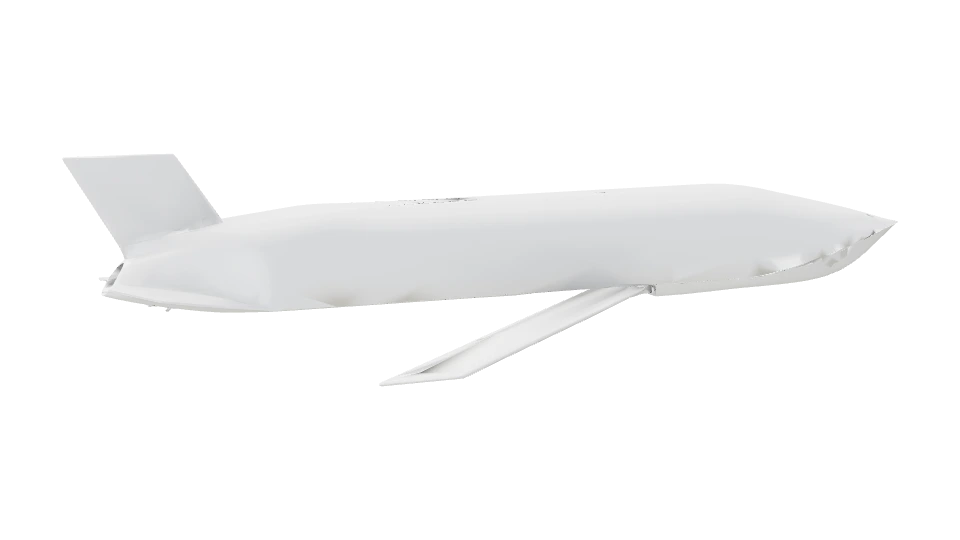
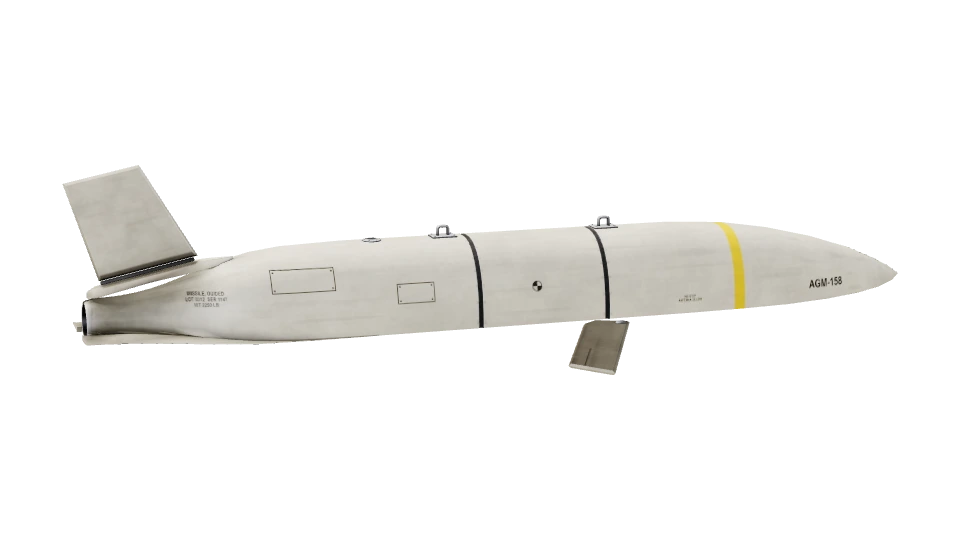
Миниатюры «Волны» обновлены вместе с новыми моделями; integrate-own снимает обе

Changed region(s): [[0.0625, 0.2667, 0.9375, 0.7111]]

diff --git a/fortuna-bot-web/tools/airdef-models/integrate-own.js b/fortuna-bot-web/tools/airdef-models/integrate-own.js
@@ -97,14 +97,16 @@ console.log('5. авторы чужого набора: ' + (credRemoved || newM
 // (2026-10-25: «Кинжал» снимался как wpn:kinzhal — такого узла нет, миниатюра не обновилась)
 const { NODE } = await import(WEB + 'games/airdef/progress.js');
 const TID = NODE['wpn:' + P.weapon] ? 'wpn:' + P.weapon : NODE['strike:' + P.weapon] ? 'strike:' + P.weapon : 'wpn:' + P.weapon, TFILE = `games/airdef/thumbs/${TID.replace(':', '_')}.webp`;
+// оружие и заказ «Волны» у одной модели (Х-101, JASSM…): у удара своя миниатюра strike_<ключ>_s (2026-11-05: в «Волне» осталась старая Х-101)
+const TID2 = NODE['strike:' + P.weapon + '_s'] ? 'strike:' + P.weapon + '_s' : null, TFILE2 = TID2 ? `games/airdef/thumbs/${TID2.replace(':', '_')}.webp` : null;
 const up = async () => { try { return (await fetch('http://localhost:8935/fortuna-bot-web/games/airdef.html', { method: 'HEAD' })).ok; } catch { return false; } };
 if (NOTHUMB || DRY) console.log('6. миниатюра пропущена');
-else if (!(await up())) console.log(`6. сервер :8935 не запущен — миниатюру позже: deno run -A tools/airdef-headless/thumbs-bake.js ${TID}`);
-else { const r = new Deno.Command(Deno.execPath(), { args: ['run', '-A', WEB + 'tools/airdef-headless/thumbs-bake.js', TID], stdout: 'piped', stderr: 'piped' }).outputSync(); console.log('6. миниатюра ' + (r.success ? 'снята' : 'не снялась')); }
+else if (!(await up())) console.log(`6. сервер :8935 не запущен — миниатюру позже: deno run -A tools/airdef-headless/thumbs-bake.js ${TID}${TID2 ? ',' + TID2 : ''}`);
+else { const r = new Deno.Command(Deno.execPath(), { args: ['run', '-A', WEB + 'tools/airdef-headless/thumbs-bake.js', TID + (TID2 ? ',' + TID2 : '')], stdout: 'piped', stderr: 'piped' }).outputSync(); console.log('6. миниатюра ' + (r.success ? 'снята' : 'не снялась')); }
 
 // ── 7. коммит (только по --commit) ──
 const gitPaths = ['tools/airdef-models/prepare.js', `tools/airdef-models/own/${base}.glb`, `tools/airdef-models/own/${base}.blend`, `tools/airdef-models/own/${base}-build`, 'games/airdef/models.js',
-  `games/airdef/models/${KEY}.glb`, 'games/airdef/models/credits.js', 'games/airdef/models/CREDITS.md', TFILE].filter((x) => exists(WEB + x));
+  `games/airdef/models/${KEY}.glb`, 'games/airdef/models/credits.js', 'games/airdef/models/CREDITS.md', TFILE, TFILE2].filter((x) => x).filter((x) => exists(WEB + x));
 if (COMMIT) {
   if (DRY) console.log('7. [dry] коммит только путей: ' + gitPaths.join(', '));
   else {

diff --git a/fortuna-bot-web/AIRDEF_STATE.md b/fortuna-bot-web/AIRDEF_STATE.md
@@ -1713,3 +1713,4 @@ Mark работает с **Opus на высоком усилии** — он ру
 - 2026-11-05 · Opus 5.5 · **8 самолётов сняты с продажи** (Mark: «снять 8»): Ту-16, М-4, МиГ-19, МиГ-17, Jaguar, Buccaneer, Tornado, Harrier. progress.js RETIRED: новому не видны в дереве, ленте ангара и выборе онлайна, исследовать нельзя; кто исследовал - может купить, кто купил - летает, покупка идёт в счёт ранга. У сторон по 25 (6/7/7/5). Боты, учебные задания, модели и кадры меню не менялись. PAIR: Ту-22 → Vulcan, Як-38 → A-10. В online-dev, на сайт не выложено; при деплое нужны sync-shared (сделан), функции Supabase и update.ps1. **F-15E:** задание hawk21-builder, референсы в Свои/F-15E/референсы. Отдельная модель разрушений не нужна (plane-zones.js режет геометрию). При подмене: nozzles/nr из ПАСПОРТА, e_f15e в TWIN (plane-zones.js: сейчас его там нет, хотя килей два), stations, seats-gen, thumbs, pk_e_f15e, камуфляж «Инферно» переделать на новую развёртку.
 - 2026-11-05 · Opus 5.5 · **Проба живой краски, выключена у игроков** (Mark: «красивыми, реалистичными и интерактивными с миром»): games/airdef/paint.js, ?paint=1. Материал остаётся Phong; шейдер добавляет отражение настоящего неба погоды, земли и зала, Френель, блик и размытие по шероховатости, стекло с отражением. Шероховатость и металл - из metallicRoughnessTexture или, пока её нет, шум и грязь по текстуре. Только самолёты и вертолёты, без _lo. Замер: M1, 3200×1800, камера вплотную, 29,2 → 28,1 и 29,1 → 27,5 кадр/с (+1,3-2 мс); на телефоне не мерили. Карта блеска на настоящей модели не проверена, в prepare.js её передача ещё не добавлена. Заметно на тёмных моделях (F-15E вечером), на светлых пережжённых текстурах (F-16, F/A-18) почти не видно. Требования к карте - у hawk21-builder для F-15E.
 - 2026-11-05 · Opus 5.5 · **Ангар с ?paint=1:** чёткая тень: проекция на пол вдоль главного света, 1024, почти без размытия (раньше 256 и сильное размытие). Шасси: `e_f15e_gear` (META только с paint, gearModel у e_f15e): оси как у самолёта, низ стоек = пол, подъёмников нет; файла нет или не загрузился - обычные подъёмники, проверено подставным файлом, настоящие стойки ещё не проверены. В бою и без флага ничего не меняется. Запрос от сборщика F-15E по решению Mark. Также paint: карта R = затенение, блик ×0,32, clearGlass у e_f15e.
+- 2026-11-05 · Opus 5.5 · **Миниатюры «Волны»:** у оружия и удара одной модели свои файлы, integrate-own обновлял только wpn: остались старые Х-101 и JASSM; пересобраны, integrate-own теперь снимает обе. **AARGM-ER:** задание fuel-builder, референсы в Свои/AARGM-ER/референсы; при подмене новый ключ w_aargm (сейчас w_agm88 на двоих) и имя в игре AARGM-ER.
